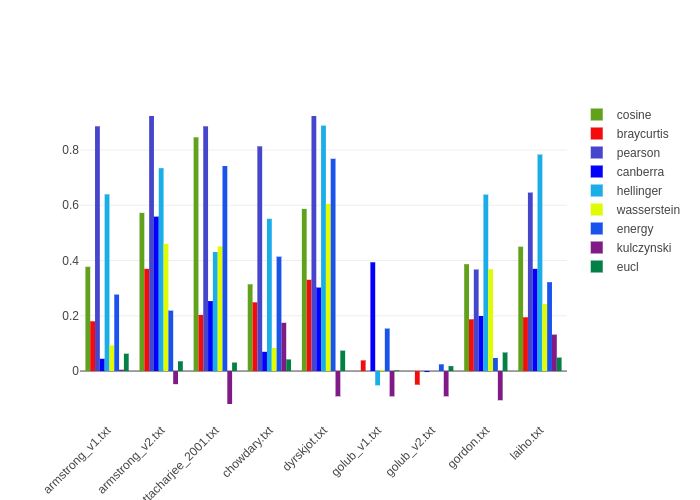
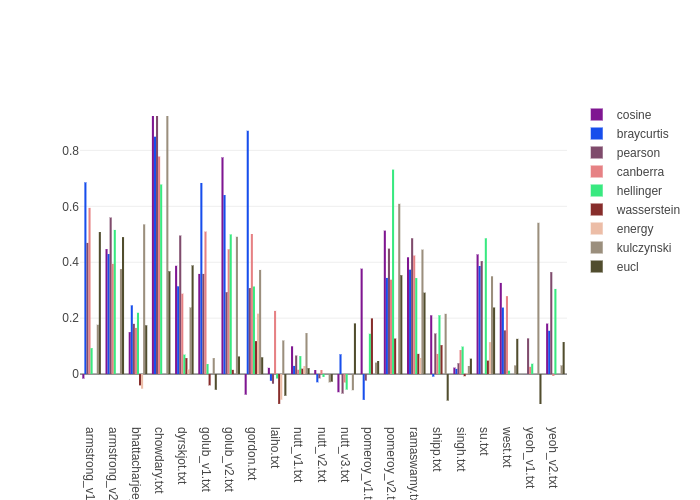
fix : bar plots show all files

Changed region(s): [[0.09, 0.21, 0.81, 0.81], [0.06, 0.84, 0.81, 1.0], [0.84, 0.21, 0.87, 0.57]]

diff --git a/ari_percentage_normed_scores.py b/ari_percentage_normed_scores.py
@@ -11,9 +11,8 @@ import xlsxwriter
 import plotly.io as pio
 
 
-
-path_data = '/home/milica/Desktop/po/projekat_po1/Affy/data/'
-path_label = '/home/milica/Desktop/po/projekat_po1/Affy/labels/'
+path_data = '/home/vladimir/Desktop/po_projekat/Affy/data/'
+path_label = '/home/vladimir/Desktop/po_projekat/Affy/labels/'
 file_header = (["   ", "Silhouette_cosine","Silhouette_braycurtis","Silhouette_canberra", "Silhouette_pearson", "Silhouette_hellinger","Silhouette_wasserstein",
     "Silhouette_energy","Silhouette_kulczynski","Calinski_harabaz","Davies_Bouldin"])
 
@@ -23,7 +22,7 @@ data_file_names =  sorted(os.listdir(path_data))
 label_file_names =  sorted(os.listdir(path_label))
 
 scores = []
-data_book = xlsxwriter.Workbook("/home/milica/Desktop/po/projekat_po1/Affy/ARI/ARI_percentage_normed_results.xlsx")
+data_book = xlsxwriter.Workbook("/home/vladimir/Desktop/po_projekat/Affy/ARI/ARI_percentage_normed_results.xlsx")
 worksheet = data_book.add_worksheet()
 
 
@@ -55,25 +54,29 @@ for file_scores in scores:
 data_book.close()
 
 trace = []
+scrs = [scores[i][1:10] for i in range(0,21)]
+scrs = np.array(scrs)
+
 for i in range(0,len(distance_names)):
     trace1 = go.Bar(
         x=data_file_names,
-        y= scores[i+1][1:],
+        y= scrs[:,i],
         name=distance_names[i],
         marker=dict(
             color=rgb_color_random()
         )
     )
     trace.append(trace1)
+    print(scrs[:,i])
 
 data = trace
 layout = go.Layout(
-    xaxis=dict(tickangle=-45),
+   # xaxis=dict(tickangle=-45),
     barmode='group',
 )
 
 fig = go.Figure(data=data, layout=layout)
-pio.write_image(fig, file='/home/milica/Desktop/po/projekat_po1/Affy/ARI/ari_percentage_normed_scores.png', format='png')
+pio.write_image(fig, file='/home/vladimir/Desktop/po_projekat/Affy/ARI/ari_percentage_normed_scores.png', format='png')
 
 
 

diff --git a/ari_zpercentage_normed_scores.py b/ari_zpercentage_normed_scores.py
@@ -13,8 +13,8 @@ import plotly.io as pio
 
 
 
-path_data = '/home/milica/Desktop/po/projekat_po1/Affy/data/'
-path_label = '/home/milica/Desktop/po/projekat_po1/Affy/labels/'
+path_data = '/home/vladimir/Desktop/po_projekat/Affy/data/'
+path_label = '/home/vladimir/Desktop/po_projekat/Affy/labels/'
 file_header = (["   ", "Silhouette_cosine","Silhouette_braycurtis","Silhouette_canberra", "Silhouette_pearson", "Silhouette_hellinger","Silhouette_wasserstein",
     "Silhouette_energy","Silhouette_kulczynski","Calinski_harabaz","Davies_Bouldin"])
 
@@ -24,7 +24,7 @@ data_file_names =  sorted(os.listdir(path_data))
 label_file_names =  sorted(os.listdir(path_label))
 
 scores = []
-data_book = xlsxwriter.Workbook("/home/milica/Desktop/po/projekat_po1/Affy/ARI/ARI_zpercentage_normed_results.xlsx")
+data_book = xlsxwriter.Workbook("/home/vladimir/Desktop/po_projekat/Affy/ARI/ARI_zpercentage_normed_results.xlsx")
 worksheet = data_book.add_worksheet()
 
 
@@ -55,26 +55,30 @@ for file_scores in scores:
 
 data_book.close()
 
+scrs = [scores[i][1:10] for i in range(0,21)]
+scrs = np.array(scrs)
+
 trace = []
 for i in range(0,len(distance_names)):
     trace1 = go.Bar(
         x=data_file_names,
-        y= scores[i+1][1:],
+        y= scrs[:,i],
         name=distance_names[i],
         marker=dict(
             color=rgb_color_random()
         )
     )
     trace.append(trace1)
+    print(scrs[:,i])
 
 data = trace
 layout = go.Layout(
-    xaxis=dict(tickangle=-45),
+   # xaxis=dict(tickangle=-45),
     barmode='group',
 )
 
 fig = go.Figure(data=data, layout=layout)
-pio.write_image(fig, file='/home/milica/Desktop/po/projekat_po1/Affy/ARI/ari_zpercentagenormed_scores.png', format='png')
+pio.write_image(fig, file='/home/vladimir/Desktop/po_projekat/Affy/ARI/ari_zpercentagenormed_scores.png', format='png')
 
 
 

diff --git a/ari_znormed_scores.py b/ari_znormed_scores.py
@@ -13,8 +13,8 @@ import plotly.io as pio
 
 
 
-path_data = '/home/milica/Desktop/po/projekat_po1/Affy/data/'
-path_label = '/home/milica/Desktop/po/projekat_po1/Affy/labels/'
+path_data = '/home/vladimir/Desktop/po_projekat/Affy/data/'
+path_label = '/home/vladimir/Desktop/po_projekat/Affy/labels/'
 file_header = (["   ", "Silhouette_cosine","Silhouette_braycurtis","Silhouette_canberra", "Silhouette_pearson", "Silhouette_hellinger","Silhouette_wasserstein",
     "Silhouette_energy","Silhouette_kulczynski","Calinski_harabaz","Davies_Bouldin"])
 
@@ -24,7 +24,7 @@ data_file_names =  sorted(os.listdir(path_data))
 label_file_names =  sorted(os.listdir(path_label))
 
 scores = []
-data_book = xlsxwriter.Workbook("/home/milica/Desktop/po/projekat_po1/Affy/ARI/ARI_znormed_results.xlsx")
+data_book = xlsxwriter.Workbook("/home/vladimir/Desktop/po_projekat/Affy/ARI/ARI_znormed_results.xlsx")
 worksheet = data_book.add_worksheet()
 
 
@@ -54,27 +54,30 @@ for file_scores in scores:
     col =0
 
 data_book.close()
+scrs = [scores[i][1:10] for i in range(0,21)]
+scrs = np.array(scrs)
 
 trace = []
 for i in range(0,len(distance_names)):
     trace1 = go.Bar(
         x=data_file_names,
-        y= scores[i+1][1:],
+        y= scrs[:,i],
         name=distance_names[i],
         marker=dict(
             color=rgb_color_random()
         )
     )
     trace.append(trace1)
+    print(scrs[:,i])
 
 data = trace
 layout = go.Layout(
-    xaxis=dict(tickangle=-45),
+   # xaxis=dict(tickangle=-45),
     barmode='group',
 )
 
 fig = go.Figure(data=data, layout=layout)
-pio.write_image(fig, file='/home/milica/Desktop/po/projekat_po1/Affy/ARI/ari_znormed_scores.png', format='png')
+pio.write_image(fig, file='/home/vladimir/Desktop/po_projekat/Affy/ARI/ari_znormed_scores.png', format='png')
 
 
 

diff --git a/ari_normed_scores.py b/ari_normed_scores.py
@@ -12,8 +12,8 @@ import plotly.io as pio
 
 
 
-path_data = '/home/milica/Desktop/po/projekat_po1/Affy/data/'
-path_label = '/home/milica/Desktop/po/projekat_po1/Affy/labels/'
+path_data = '/home/vladimir/Desktop/po_projekat/Affy/data/'
+path_label = '/home/vladimir/Desktop/po_projekat/Affy/labels/'
 file_header = (["   ", "Silhouette_cosine","Silhouette_braycurtis","Silhouette_canberra", "Silhouette_pearson", "Silhouette_hellinger","Silhouette_wasserstein",
     "Silhouette_energy","Silhouette_kulczynski","Calinski_harabaz","Davies_Bouldin"])
 
@@ -23,7 +23,7 @@ data_file_names =  sorted(os.listdir(path_data))
 label_file_names =  sorted(os.listdir(path_label))
 
 scores = []
-data_book = xlsxwriter.Workbook("/home/milica/Desktop/po/projekat_po1/Affy/ARI/ARI_normed_results.xlsx")
+data_book = xlsxwriter.Workbook("/home/vladimir/Desktop/po_projekat/Affy/ARI/ARI_normed_results.xlsx")
 worksheet = data_book.add_worksheet()
 
 
@@ -53,27 +53,30 @@ for file_scores in scores:
     col =0
 
 data_book.close()
+scrs = [scores[i][1:10] for i in range(0,21)]
+scrs = np.array(scrs)
 
 trace = []
 for i in range(0,len(distance_names)):
     trace1 = go.Bar(
         x=data_file_names,
-        y= scores[i+1][1:],
+        y= scrs[:,i],
         name=distance_names[i],
         marker=dict(
             color=rgb_color_random()
         )
     )
     trace.append(trace1)
+    print(scrs[:,i])
 
 data = trace
 layout = go.Layout(
-    xaxis=dict(tickangle=-45),
+   # xaxis=dict(tickangle=-45),
     barmode='group',
 )
 
 fig = go.Figure(data=data, layout=layout)
-pio.write_image(fig, file='/home/milica/Desktop/po/projekat_po1/Affy/ARI/ari_normed_scores.png', format='png')
+pio.write_image(fig, file='/home/vladimir/Desktop/po_projekat/Affy/ARI/ari_normed_scores.png', format='png')
 
 
 

diff --git a/ari_percentage_binary_normed_scores.py b/ari_percentage_binary_normed_scores.py
@@ -12,8 +12,8 @@ import plotly.io as pio
 
 
 
-path_data = '/home/milica/Desktop/po/projekat_po1/Affy/data/'
-path_label = '/home/milica/Desktop/po/projekat_po1/Affy/labels/'
+path_data = '/home/vladimir/Desktop/po_projekat/Affy/data/'
+path_label = '/home/vladimir/Desktop/po_projekat/Affy/labels/'
 file_header = (["   ", "Silhouette_cosine","Silhouette_braycurtis","Silhouette_canberra", "Silhouette_pearson", "Silhouette_hellinger","Silhouette_wasserstein",
     "Silhouette_energy","Silhouette_kulczynski","Calinski_harabaz","Davies_Bouldin"])
 
@@ -23,7 +23,7 @@ data_file_names =  sorted(os.listdir(path_data))
 label_file_names =  sorted(os.listdir(path_label))
 
 scores = []
-data_book = xlsxwriter.Workbook("/home/milica/Desktop/po/projekat_po1/Affy/ARI/ARI_normed_binary_results.xlsx")
+data_book = xlsxwriter.Workbook("/home/vladimir/Desktop/po_projekat/Affy/ARI/ARI_normed_binary_results.xlsx")
 worksheet = data_book.add_worksheet()
 
 
@@ -54,17 +54,21 @@ for file_scores in scores:
 
 data_book.close()
 
+scrs = [scores[i][1:10] for i in range(0,21)]
+scrs = np.array(scrs)
+
 trace = []
 for i in range(0,len(distance_names)):
     trace1 = go.Bar(
         x=data_file_names,
-        y= scores[i+1][1:],
+        y= scrs[:,i],
         name=distance_names[i],
         marker=dict(
             color=rgb_color_random()
         )
     )
     trace.append(trace1)
+    print(scrs[:,i])
 
 data = trace
 layout = go.Layout(
@@ -73,7 +77,7 @@ layout = go.Layout(
 )
 
 fig = go.Figure(data=data, layout=layout)
-pio.write_image(fig, file='/home/milica/Desktop/po/projekat_po1/Affy/ARI/ari_percentage_bianry_normed_scores.png', format='png')
+pio.write_image(fig, file='/home/vladimir/Desktop/po_projekat/Affy/ARI/ari_percentage_bianry_normed_scores.png', format='png')
 
 
 

diff --git a/clustering_alg.py b/clustering_alg.py
@@ -35,7 +35,11 @@ def new_centroid_cal(data,clusters,k):
             if clusters[j] == i:
                 cenroid = cenroid + data[j,:]
                 counter = counter +1
-        cenroids.append(cenroid/counter)
+        centTemp = np.zeros(cenroid.shape)
+        if counter > 0:
+            centTemp = cenroid/counter
+
+        cenroids.append(centTemp)
     return np.array(cenroids,dtype=float)
 ## greska mala izmeni nakon tusiranja
 
